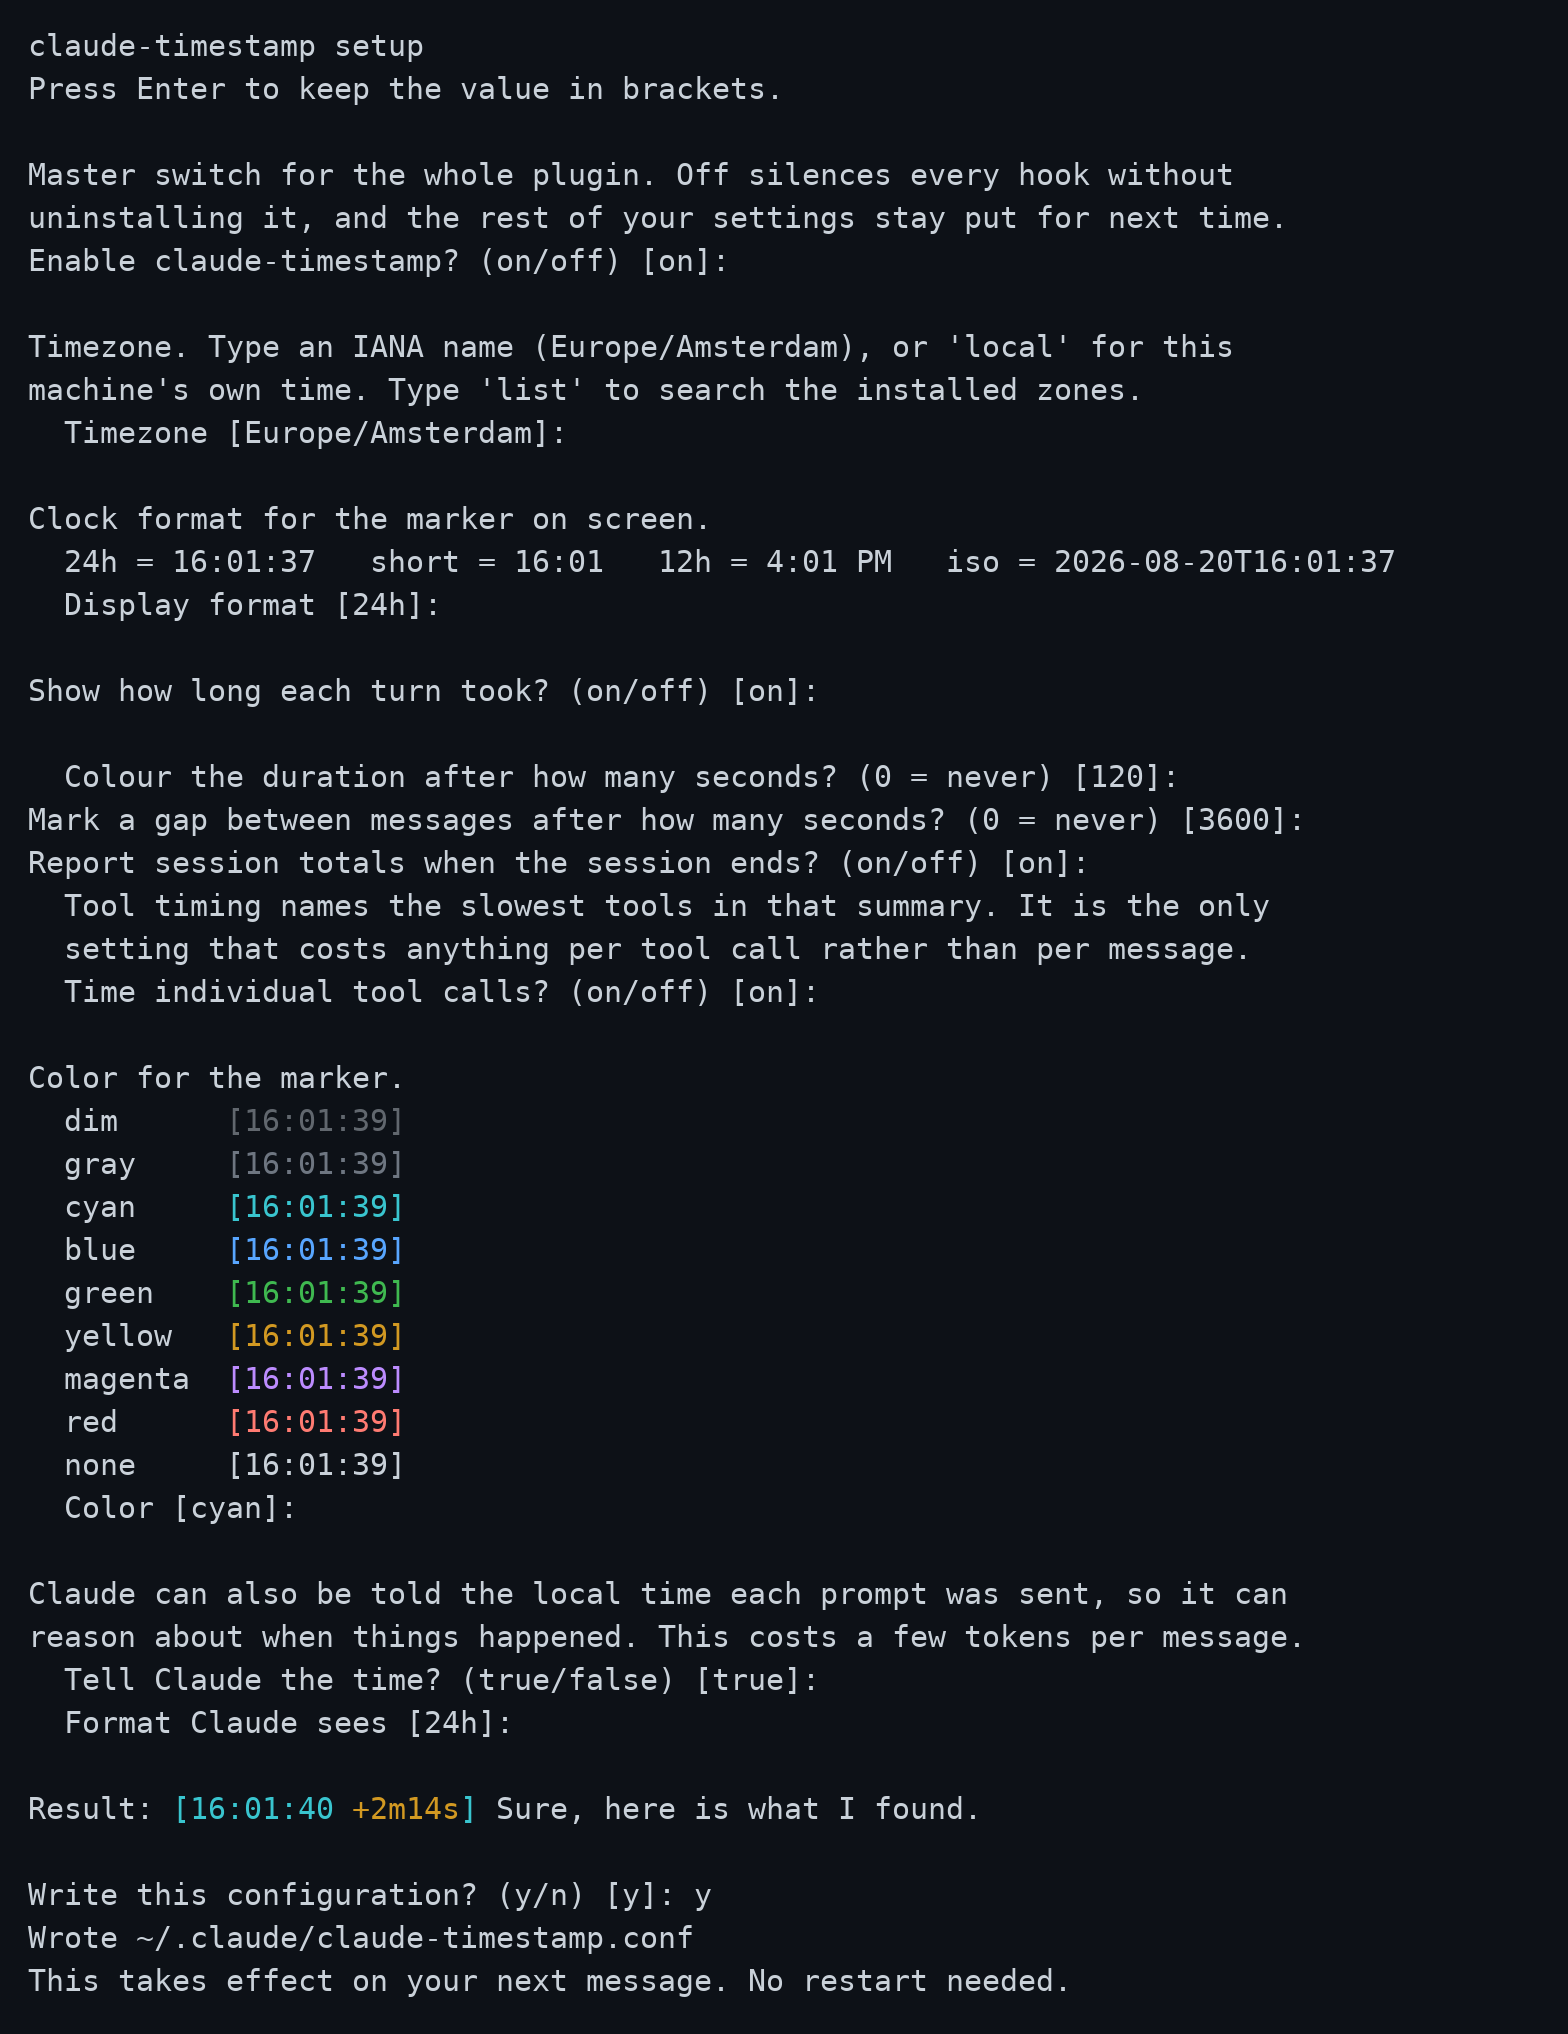
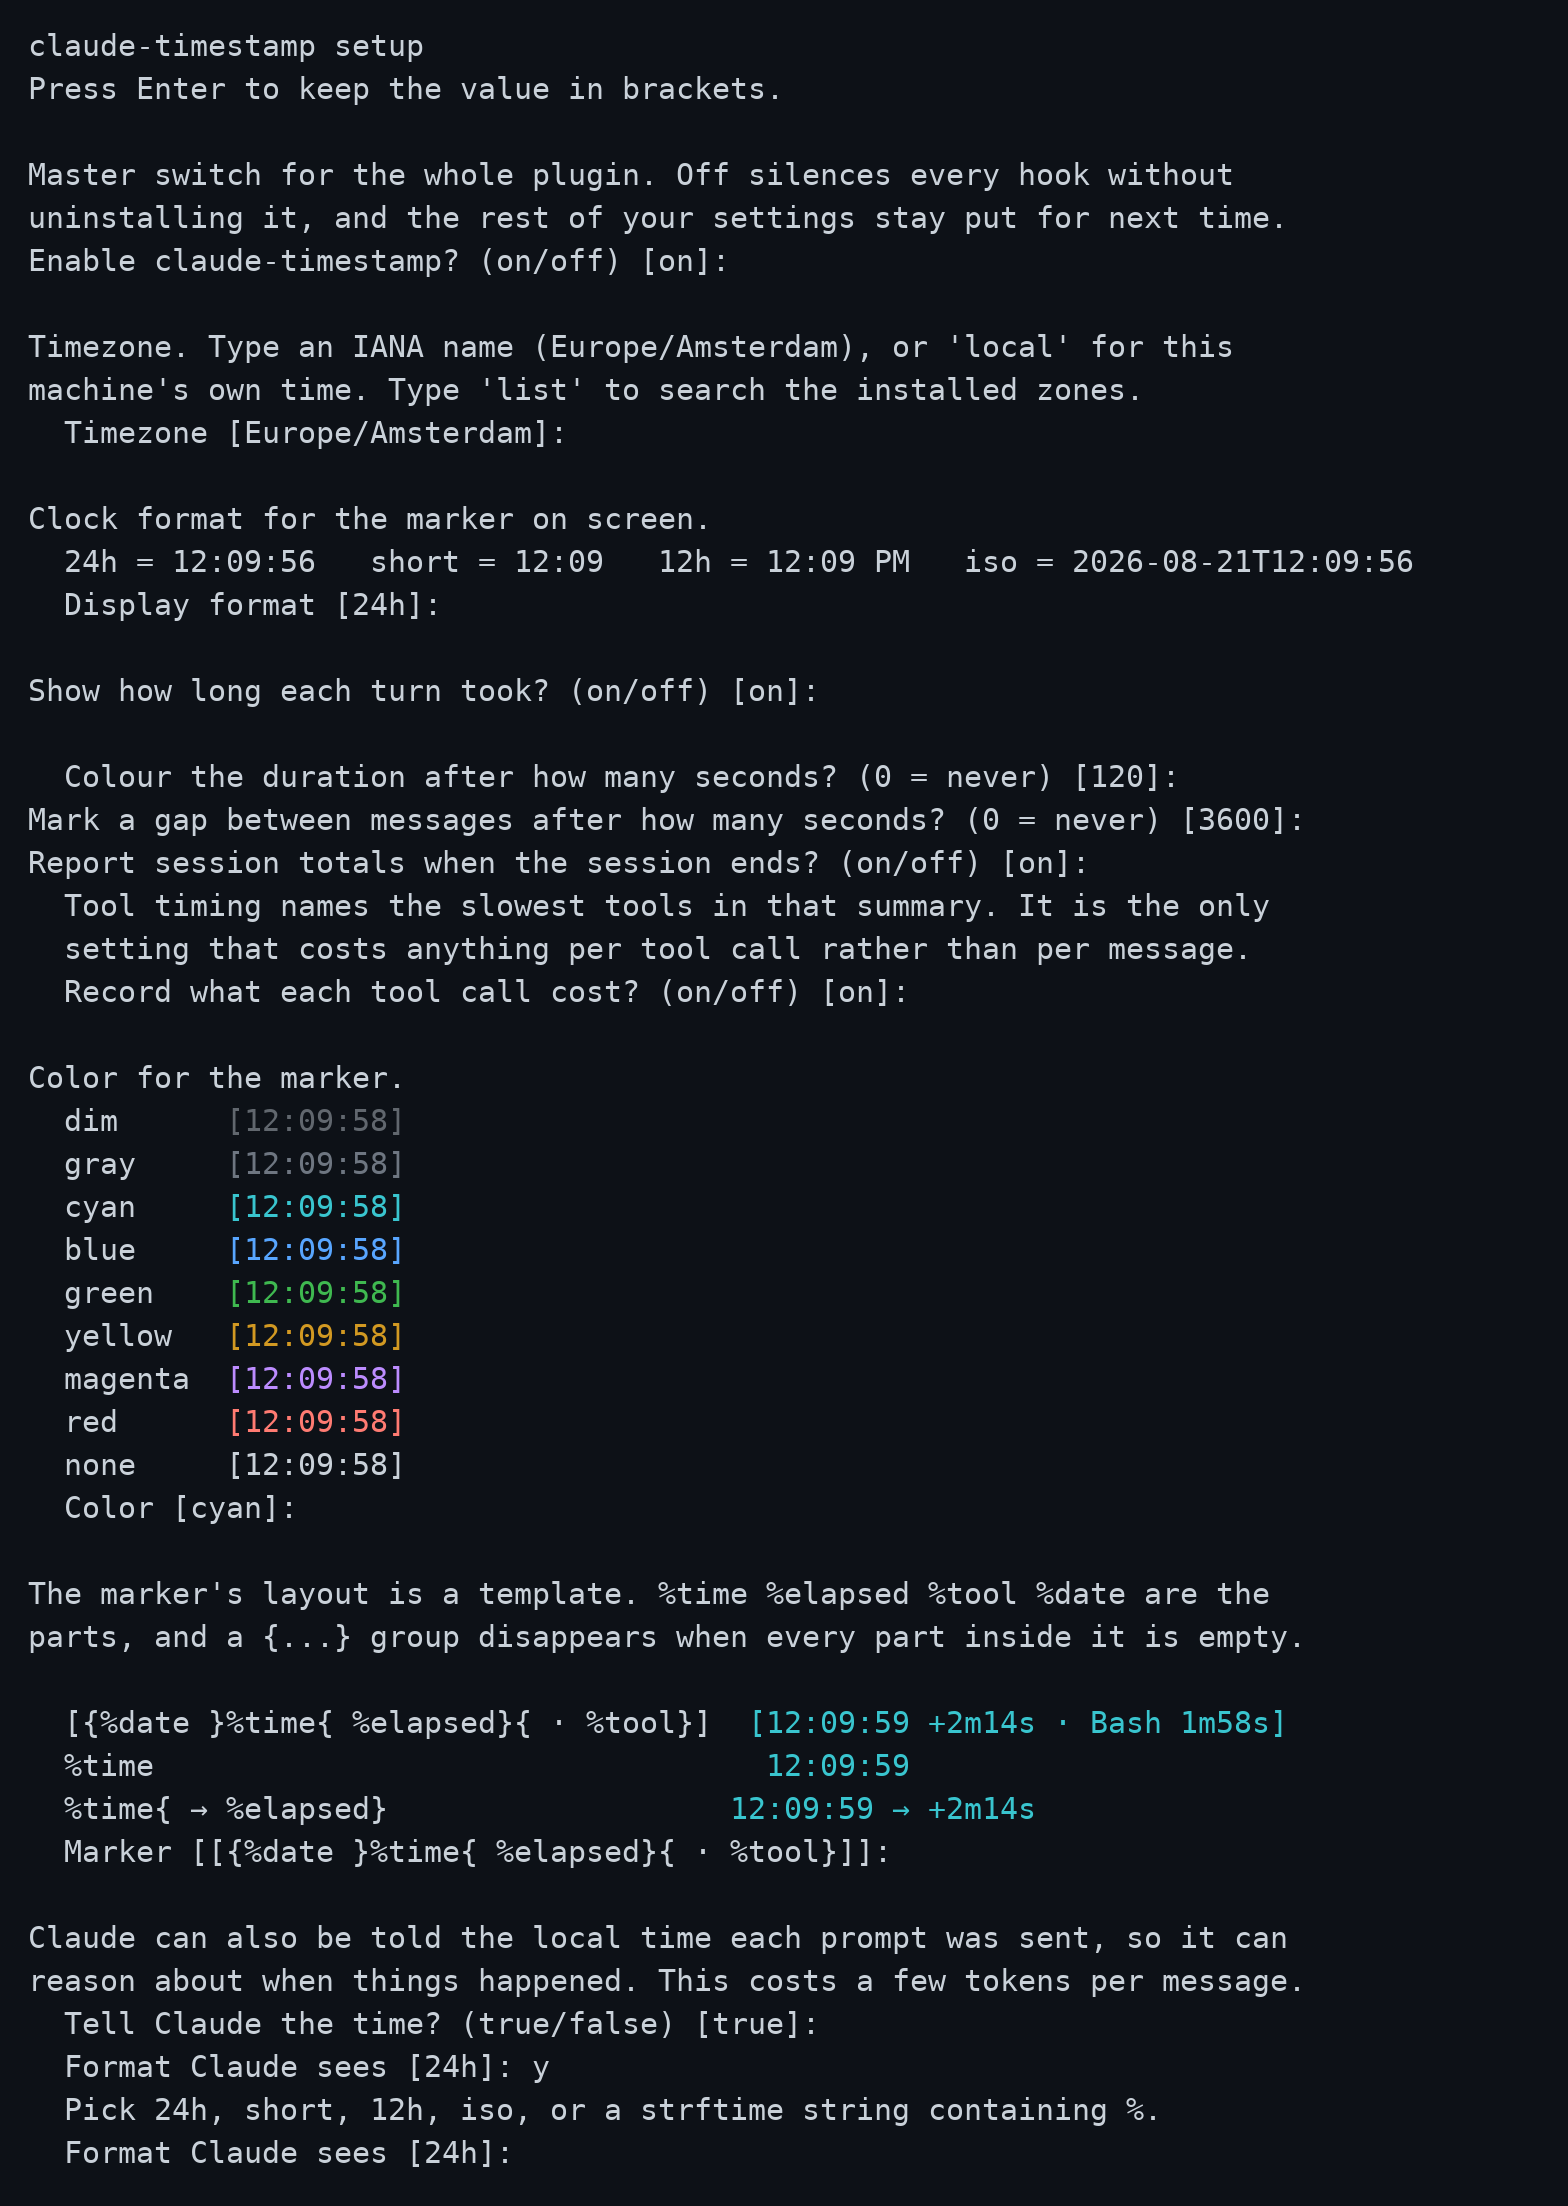
feat: set the marker layout from the terminal too
setup.sh gains --marker and the three part colours, doctor reports them, and
the wizard asks. preview() now renders through ct_render_marker rather than
building a sample by hand, so the promise that a preview is drawn by the same
code as the real marker survives the marker becoming a template.

Also regenerates doctor.png and wizard.png to show the new lines, and fixes
commands/timestamps.md to say "parentheses" rather than "brackets" for a
%time (%elapsed)-style example, matching the file's own use of "square
brackets" to mean [] specifically.

diff --git a/README.md b/README.md
@@ -6,7 +6,7 @@
 
 [![Release](https://img.shields.io/github/v/release/AraneaDev/claude-timestamp)](https://github.com/AraneaDev/claude-timestamp/releases)
 [![CI](https://github.com/AraneaDev/claude-timestamp/actions/workflows/ci.yml/badge.svg)](https://github.com/AraneaDev/claude-timestamp/actions/workflows/ci.yml)
-[![Tests](https://img.shields.io/badge/tests-453%20passing-2b8a3e)](tests/run.sh)
+[![Tests](https://img.shields.io/badge/tests-461%20passing-2b8a3e)](tests/run.sh)
 [![Platform](https://img.shields.io/badge/platform-Linux%20%7C%20macOS%20%7C%20Windows-364fc7)](#platform-notes)
 [![License: MIT](https://img.shields.io/badge/License-MIT-yellow.svg)](./LICENSE)
 
@@ -90,6 +90,80 @@ offers a handful of presets, each previewed as the marker it actually produces:
 
 It also takes the request directly, so `/timestamps tokyo`, `/timestamps no
 colour` and `/timestamps 12 hour clock` each land in one step.
+
+### The marker's layout
+
+`MARKER` decides what the marker is made of and how it is arranged. The parts
+are `%time`, `%elapsed`, `%tool` and `%date`, and a `{...}` group disappears
+when every part inside it is empty:
+
+Every line below was produced by running the renderer, not written by hand.
+The first column is the setting, the second is what appears on screen.
+
+```
+MARKER=                                          renders as
+
+[{%date }%time{ %elapsed}{ · %tool}]             [13:22:13 +2m14s · Bash 1m58s]
+[{%date }%time{ %elapsed}{ · %tool}]             [13:22:13]
+   the default, on a turn with no duration and no tool
+
+%time                                            13:22:13
+%time{ %elapsed}                                 13:22:13 +2m14s
+%time{ → %elapsed}                               13:22:13 → +2m14s
+%time{ (%elapsed)}                               13:22:13 (+2m14s)
+%time{ (%elapsed)}                               13:22:13
+   the same template, on a turn with no duration
+
+⟨%time⟩                                          ⟨13:22:13⟩
+{%date }%time                                    Aug 21 13:22:13
+%elapsed                                         +2m14s
+[%time %elapsed]                                 [13:22:13]
+   an empty part eats one run of spaces
+```
+
+**Groups matter when a part carries decoration.** `%time (%elapsed)` leaves an
+empty pair of brackets behind on a turn with no duration. `%time{ (%elapsed)}`
+does not, because the whole group goes when the part inside it is empty. Outside
+a group, an empty part eats one run of spaces, which is why `[%time %elapsed]`
+closes up on its own without needing a group at all.
+
+**Groups do not nest.** A `{` inside a group makes the template invalid, and the
+plugin falls back to the default and says so at the next session start. Flat
+templates express nearly everything nesting would.
+
+**A `%` that does not begin a part is literal**, so `100%` needs no escaping. A
+`%` followed by letters must spell one of the four names exactly: `%elapsd` is
+rejected as a typo rather than printed back at you, and `%timex` is rejected too
+rather than quietly meaning `%time` followed by an `x`.
+
+### Colour, and where it applies
+
+Each part takes its own colour through `TIME_COLOR`, `ELAPSED_COLOR` and
+`TOOL_COLOR`. An empty one follows `COLOR`, which is what "inherit" means in the
+settings table. `SLOW_COLOR` still wins over `ELAPSED_COLOR` once a turn crosses
+`SLOW_AFTER`, because a slow turn being obvious is the point of that setting.
+
+Colour is written as ANSI escape sequences, which only help where something
+interprets them. A terminal does. Claude Code in VS Code, and other clients that
+render the text as-is, do not, and an escape sequence sent there arrives as
+visible `[2m` characters wrapped around the marker.
+
+So the plugin sends colour only when it is running in a terminal session, and
+sends plain text everywhere else. Nothing needs configuring: the marker simply
+arrives clean in VS Code and coloured in a terminal.
+
+Two environment variables override that, and both are read before anything else:
+
+- **`NO_COLOR`**: never send colour, whatever `COLOR` says. Any non-empty value.
+- **`FORCE_COLOR`**: send colour even outside a terminal, for a client you know renders it.
+
+`NO_COLOR` wins when both are set. `setup.sh --doctor` reports which client it
+detected and whether colour is being suppressed, which is the quickest way to
+find out why a marker looks plainer than expected.
+
+`ELAPSED` and `TOOL_TIMING` decide whether those parts have anything to say;
+`MARKER` decides where they go. A part with nothing to say leaves no trace,
+whichever of the two silenced it.
 
 Changes take effect on your **next message**. Every hook reads the config file
 each time it runs, so nothing needs restarting. Only installing the plugin
@@ -300,7 +374,7 @@ no database.
 ## Development
 
 ```bash
-bash tests/run.sh                                    # 453 assertions, no framework
+bash tests/run.sh                                    # 461 assertions, no framework
 shellcheck -S style -e SC1091 hooks/scripts/**/*.sh  # clean
 bash tools/check-docs.sh                             # README against the code
 ```

diff --git a/commands/timestamps.md b/commands/timestamps.md
@@ -210,7 +210,7 @@ in `schema.json`:
 - Outside a group, an empty part eats one run of spaces, so `[%time %elapsed]`
   reads correctly when the duration is absent. A part decorated with anything
   other than spaces needs a group: write `%time{ (%elapsed)}`, not
-  `%time (%elapsed)`, or the brackets will be left behind on their own.
+  `%time (%elapsed)`, or the parentheses will be left behind on their own.
 
 Refuse to write a template that fails any of those, and say which rule it broke.
 A bad value is not silently ignored: the plugin replaces it with the default and
